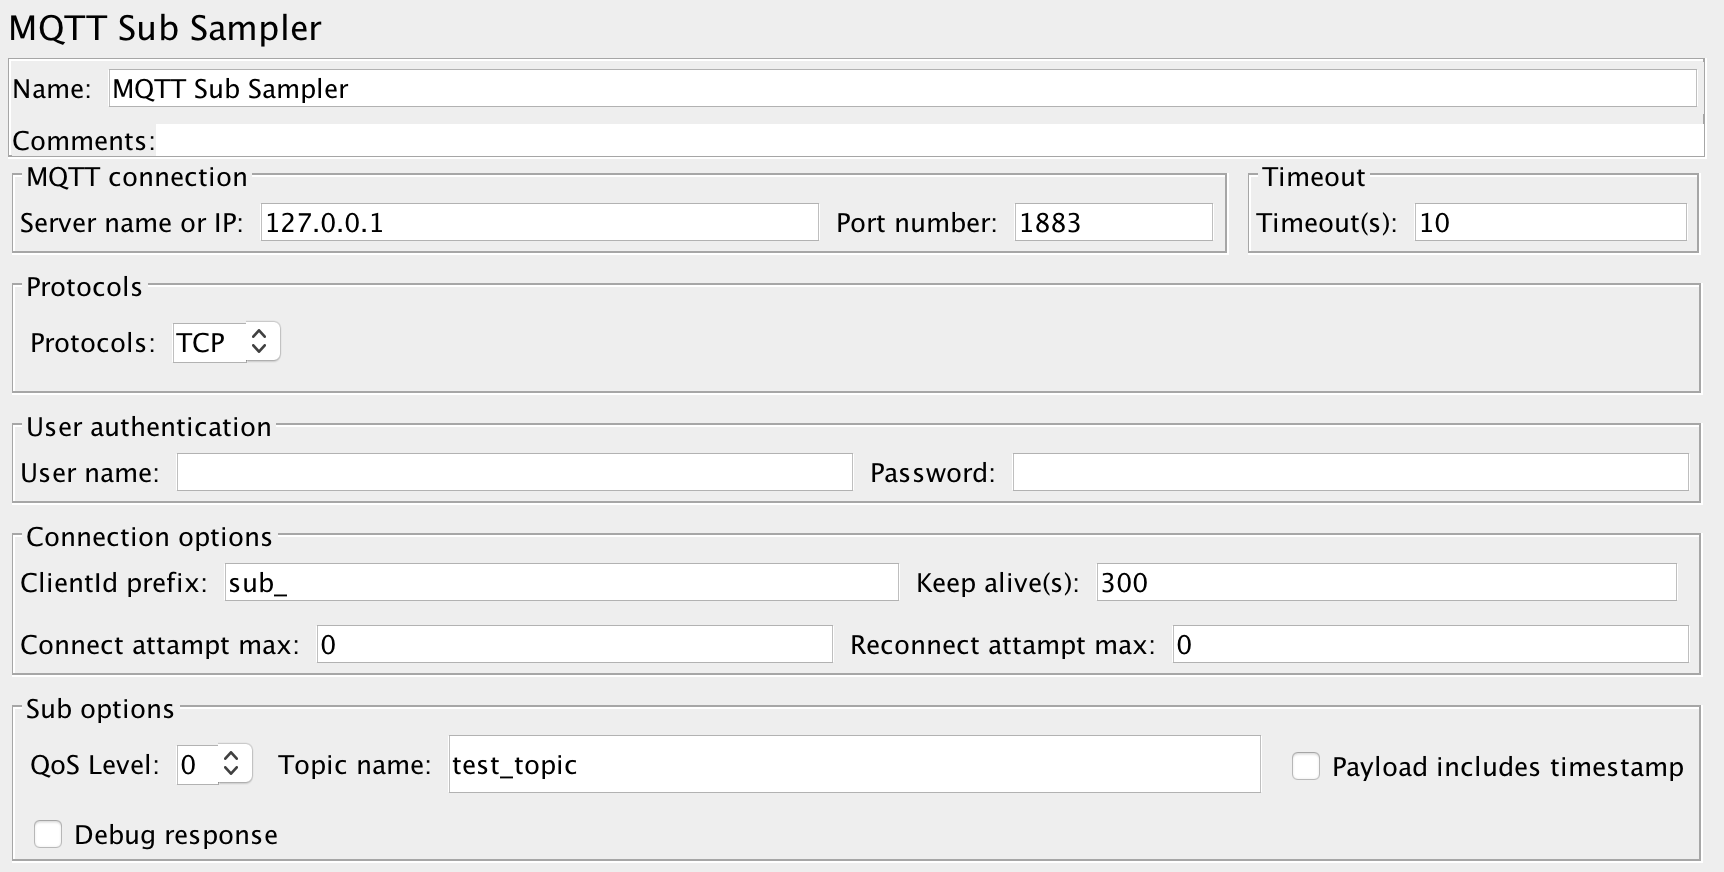
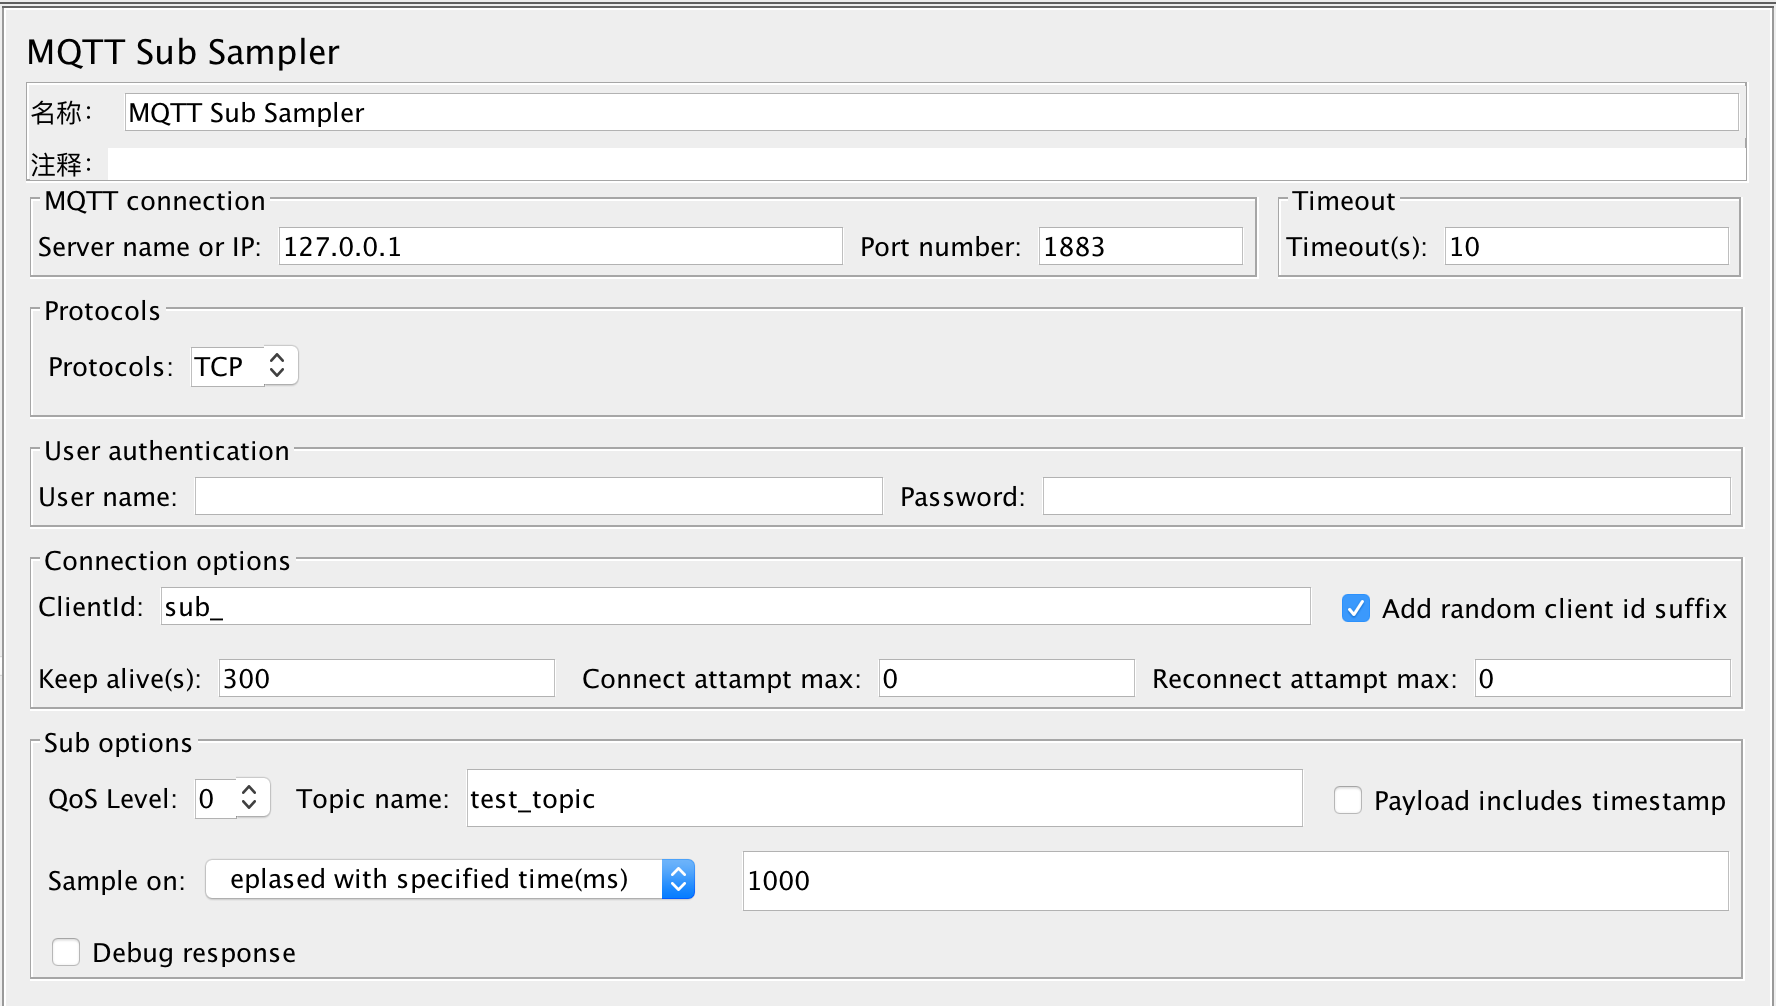
update doc

Changed region(s): [[0.0, 0.0, 1.0, 0.9908]]

diff --git a/README.md b/README.md
@@ -57,7 +57,7 @@ User can configure MQTT server with user name & password authentication, refer t
 
 ### Connection options
 
-- **ClientId prefix**: The client id prefix, the plugin will add generated uuid after the prefix to identify the client. Default value is 'conn_'.
+- **ClientId**: The client id, the plugin will add generated uuid after the prefix to identify the client if keep 'Add random client id suffix' selected. Default value is 'conn_'. If 'Add random client id suffix' is not selected, then the text of 'ClientId' will be passed as 'clientId' of current connection.
 
 - **Keep alive(s)**: Ping packet send interval in seconds. Default value is 300, which means each connection sends a ping packet to MQTT server every 5 minutes.
 
@@ -111,11 +111,13 @@ message_latency = timestamp_in_sub_when_receive_msg - timestamp_in_payload (time
 Please notice, if the machine publish message is not the same as subscriber, then the calculated message latency time is not accurate. 
 It's because the time is almost not the same in different machines. So the latency time calculated by sub sampler could be only be a reference.
 ```
+- **Sample on**: It controls how to sample. The default value is 'elapsed with specified time(ms)', which means a sub sampler will be occurred every ms specified in next text field (default is 1000ms). During the 1000 ms, multiple messages could be received, and result in report is the summarized data during 1000 ms. If the value is set to 2000, then means summarized report during 2000 ms.
+
+Another option is 'received number of message', which means a sub sampler will be occurred when received number of message that specified in next text field (default is 1). 
 
 -  **Debug response**: If it's checked, then the received message will be print in response. It's recommend to enable it when you're debugging script.
 
 ### Sub test script
-![sub_testplan](screenshots/sub_testplan.png)
 
 Normally, the sub sampler is used together with constant timers. Refer to the test plan in above, if the 'Thead delay (in milliseconds)' of constant timer is set to 1000, then it means subscriber report test result every 1 second. During the 1 second, multiple messages could be received, and result in report is the summarized data during 1 second.
 If constant timer is set to 2000, then means summarized report during 2 seconds.
